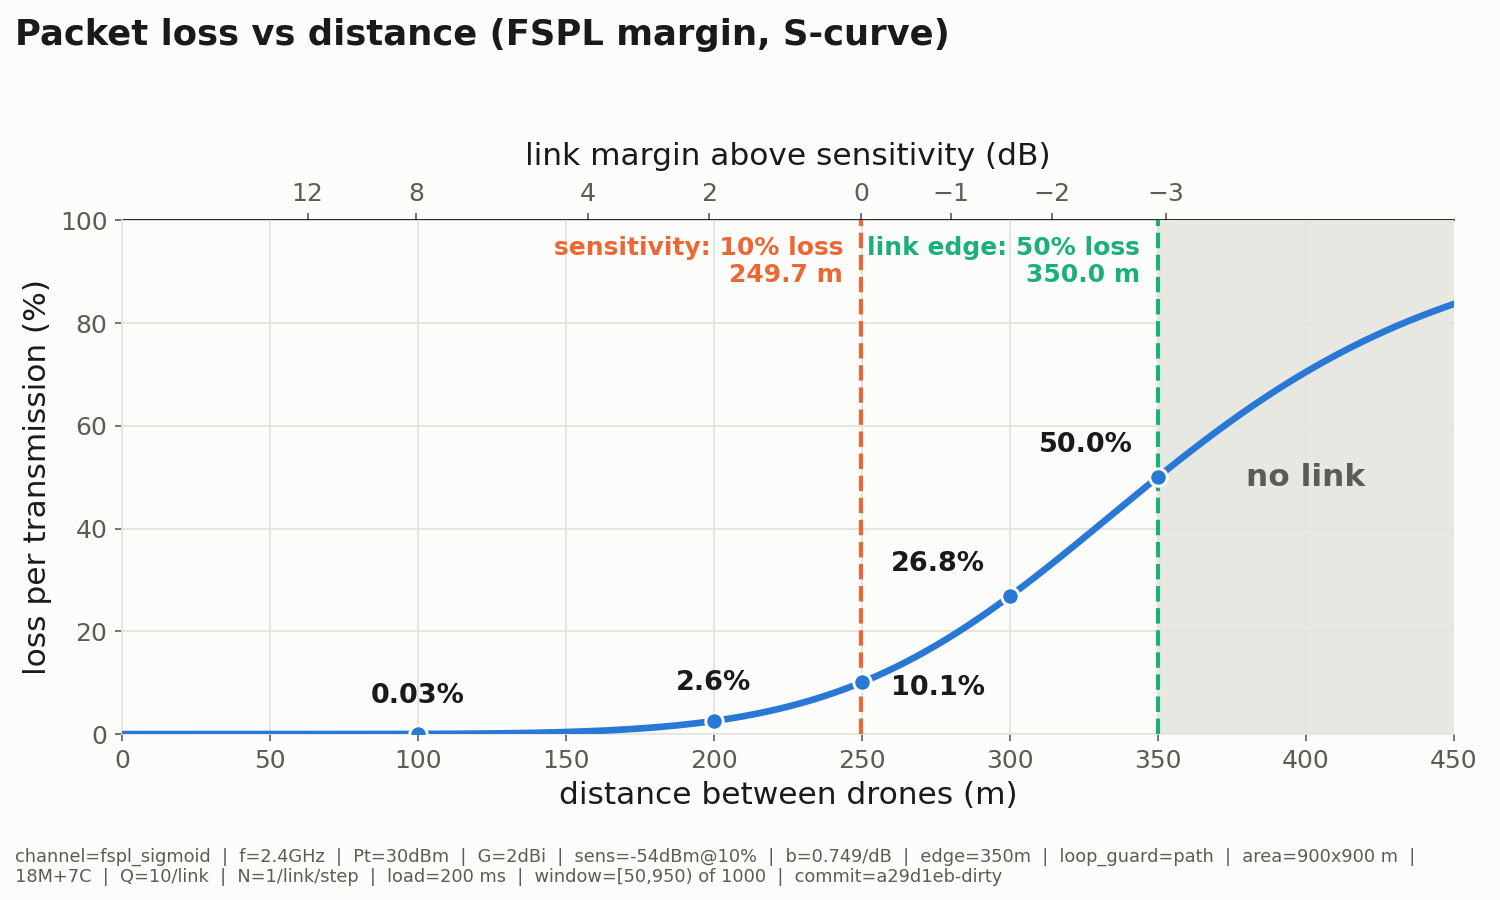
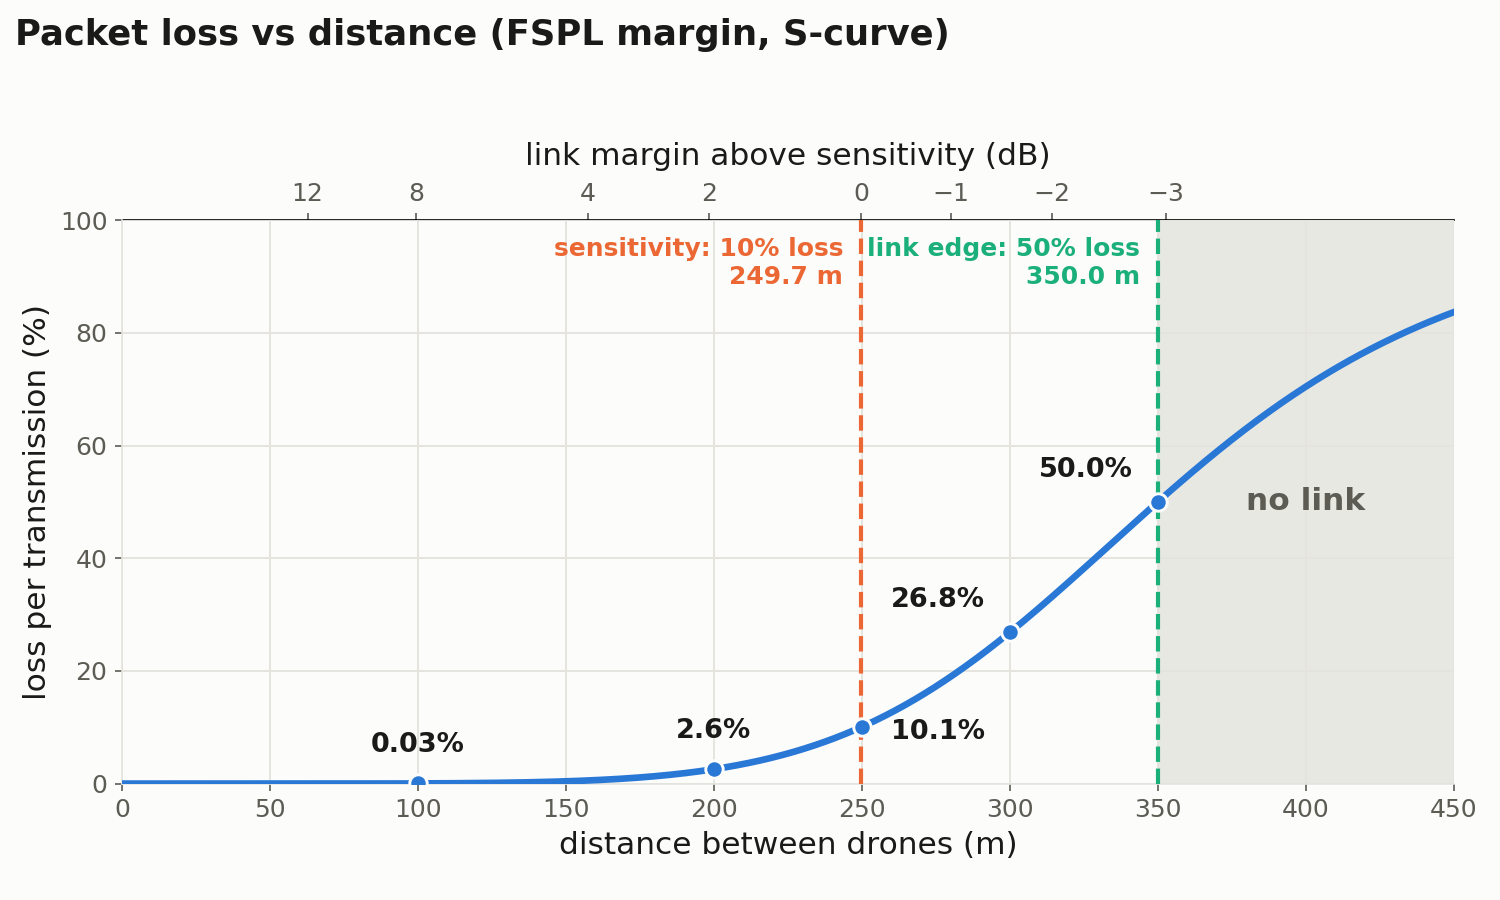
Report: dBm values in the bullets, no stamps on the report figures, bold trimmed
Section 4 bullets now give the numbers: transmit power 1 W (30 dBm), receiver
sensitivity -54 dBm.

Bold removed where it fell mid-sentence: "total packet loss", "full queues",
"channel", "rate", and the two highlighted cells in Table 3. Section titles
and definition lead-ins keep theirs; a check confirms no mid-sentence bold
is left in the written sections.

ploss_curve.png and 1a_loss_heatmaps.png are drawn for the report WITHOUT
the settings stamp, and the heatmap without its explanatory line: the report
has its own numbered captions. The copies in rl_sim/out/ keep both, so the
project's traceability rule still holds. plot_ploss.plot takes stamp=, and
experiment_1a.plot_loss_heatmaps takes annotate=.

Nothing is re-simulated for this: the curve comes from the channel code and
the heatmap is redrawn from the committed 1a_summary.csv, which already holds
the mean/std records that figure reads.

diff --git a/rl_sim/scripts/report_figures.py b/rl_sim/scripts/report_figures.py
@@ -58,9 +58,7 @@ LINK_COLOR = "#b9c6d4"
 #: exist in out/; a missing name is reported rather than passed over, so the
 #: report folder can never quietly fall behind.
 COPIED = (
-    "ploss_curve.png",
     "1a_total_loss_vs_load.png",
-    "1a_loss_heatmaps.png",
     "1a_link_matrix_placement1.png",
     "1b_learning_curve.png",
     "1b_learning_curve_seeds.png",
@@ -71,10 +69,11 @@ COPIED = (
     "queue_size_load_curve.png",
 )
 
-#: Figures this script draws itself. None at the moment: the example layout
-#: is a hand-made figure supplied for the report, and is listed under KEEP so
-#: a run of this script neither regenerates nor deletes it.
-OWN: tuple = ()
+#: Figures this script draws itself, from results already computed. These
+#: are the two the report shows without a settings stamp: the report has its
+#: own numbered captions, and the stamp is developer metadata. The stamped
+#: versions in rl_sim/out/ are untouched.
+OWN = ("ploss_curve.png", "1a_loss_heatmaps.png")
 
 #: Figures that live in the report folder but are NOT produced here.
 KEEP = ("example_layout.png",)
@@ -118,6 +117,57 @@ def copy_shared(out_dir: str, figures_dir: str) -> List[str]:
     return missing
 
 
+def draw_unstamped(out_dir: str, figures_dir: str) -> List[str]:
+    """Redraw the report's two stamped figures without their stamp.
+
+    Nothing is re-simulated: the loss curve comes from the channel code, and
+    the heatmap is redrawn from the committed summary CSV.
+
+    Args:
+        out_dir:     Where the project's CSVs live.
+        figures_dir: Where the report's figures go.
+
+    Returns:
+        The names that could not be drawn, with the reason.
+    """
+    from scripts.plot_ploss import plot as plot_curve
+    from scripts.stamp import read_stamped_csv
+
+    problems: List[str] = []
+
+    plot_curve(os.path.join(figures_dir, "ploss_curve.png"), stamp=False)
+    print("  drew ploss_curve.png (no stamp)")
+
+    summary_path = os.path.join(out_dir, "1a_summary.csv")
+    if not os.path.exists(summary_path):
+        problems.append(f"1a_loss_heatmaps.png: no {summary_path}")
+        return problems
+
+    from scripts.experiment_1a import plot_loss_heatmaps
+
+    # The summary CSV holds exactly the <column>_mean / _std records the
+    # heatmap reads, so it can be redrawn without rerunning the grid.
+    summary: List[Dict[str, Any]] = []
+    for raw in read_stamped_csv(summary_path):
+        record: Dict[str, Any] = {}
+        for key, value in raw.items():
+            if key in ("routing",):
+                record[key] = value
+            elif value == "":
+                record[key] = None
+            else:
+                record[key] = float(value)
+        record["load_ms"] = int(record["load_ms"])
+        record["runs"] = int(record["runs"])
+        summary.append(record)
+
+    plot_loss_heatmaps(summary,
+                       os.path.join(figures_dir, "1a_loss_heatmaps.png"),
+                       annotate=False)
+    print("  drew 1a_loss_heatmaps.png (no stamp, no caption)")
+    return problems
+
+
 def prune(figures_dir: str, keep: Sequence[str]) -> List[str]:
     """Delete figures in the report folder that are no longer produced.
 
@@ -156,6 +206,10 @@ def main() -> None:
     figures_dir = os.path.abspath(args.figures_dir)
     os.makedirs(figures_dir, exist_ok=True)
     print(f"Report figures -> {figures_dir}")
+
+    problems = draw_unstamped(args.out_dir, figures_dir)
+    if problems:
+        print("  NOT drawn: " + "; ".join(problems))
 
     missing = copy_shared(args.out_dir, figures_dir)
     if missing:

diff --git a/rl_sim/scripts/experiment_1a.py b/rl_sim/scripts/experiment_1a.py
@@ -733,7 +733,8 @@ def _draw_panel(
     return image
 
 
-def plot_loss_heatmaps(summary: List[Dict[str, Any]], path: str) -> None:
+def plot_loss_heatmaps(summary: List[Dict[str, Any]], path: str,
+                       annotate: bool = True) -> None:
     """Draw the loss heatmaps: causes per rule, then per-link loss apart.
 
     The cause panels are shares of packets created and share one colour bar.
@@ -742,8 +743,12 @@ def plot_loss_heatmaps(summary: List[Dict[str, Any]], path: str) -> None:
     to.
 
     Args:
-        summary: Output of :func:`summarise`.
-        path:    Output PNG path.
+        summary:  Output of :func:`summarise`.
+        path:     Output PNG path.
+        annotate: Whether to print the explanatory line and the settings
+                  stamp underneath. The copy in out/ keeps both; the copy
+                  used in the written report, which has its own caption,
+                  leaves them off.
     """
     fig = plt.figure(figsize=(16.0, 6.0), dpi=150)
     # Leave room under the axes for the caption and the settings stamp, so
@@ -802,15 +807,17 @@ def plot_loss_heatmaps(summary: List[Dict[str, Any]], path: str) -> None:
         "Loss and its causes, by load and routing rule  —  mean % (std)",
         color=TEXT_PRIMARY, fontsize=13, fontweight="bold", x=0.01, ha="left",
     )
-    fig.text(0.01, 0.085,
-             "Identical seeds for both rules. Left panels: share of packets "
-             "created. Right panel: share of link attempts, pooled over all "
-             "links — a different denominator, hence its own scale.",
-             color=TEXT_SECONDARY, fontsize=8)
-    fig.text(0.01, 0.02,
-             stamp_lines(width=150, loads_ms=LOADS_MS,
-                         placements=summary[0]["runs"]),
-             color=TEXT_SECONDARY, fontsize=7.5, va="bottom")
+    if annotate:
+        fig.text(0.01, 0.085,
+                 "Identical seeds for both rules. Left panels: share of "
+                 "packets created. Right panel: share of link attempts, "
+                 "pooled over all links — a different denominator, hence its "
+                 "own scale.",
+                 color=TEXT_SECONDARY, fontsize=8)
+        fig.text(0.01, 0.02,
+                 stamp_lines(width=150, loads_ms=LOADS_MS,
+                             placements=summary[0]["runs"]),
+                 color=TEXT_SECONDARY, fontsize=7.5, va="bottom")
 
     fig.savefig(path, facecolor=SURFACE)
     plt.close(fig)

diff --git a/rl_sim/scripts/plot_ploss.py b/rl_sim/scripts/plot_ploss.py
@@ -88,11 +88,14 @@ def print_reference_table() -> None:
           f"(p_loss < {config.LINK_MAX_LOSS})")
 
 
-def plot(out_path: str) -> str:
+def plot(out_path: str, stamp: bool = True) -> str:
     """Draw the loss curve.
 
     Args:
         out_path: Where the PNG goes.
+        stamp:    Whether to print the settings stamp along the bottom. The
+                  copy in out/ keeps it, for traceability; the copy used in
+                  the written report leaves it off.
 
     Returns:
         The path written.
@@ -176,9 +179,10 @@ def plot(out_path: str) -> str:
     fig.suptitle("Packet loss vs distance (FSPL margin, S-curve)",
                  color=TEXT_PRIMARY, fontsize=17, fontweight="bold",
                  x=0.01, ha="left")
-    fig.tight_layout(rect=(0, 0.075, 1, 0.93))
-    fig.text(0.01, 0.015, stamp_lines(width=150), color=TEXT_SECONDARY,
-             fontsize=8.5, va="bottom")
+    fig.tight_layout(rect=(0, 0.075 if stamp else 0.02, 1, 0.93))
+    if stamp:
+        fig.text(0.01, 0.015, stamp_lines(width=150), color=TEXT_SECONDARY,
+                 fontsize=8.5, va="bottom")
     fig.savefig(out_path, facecolor=SURFACE)
     plt.close(fig)
     return out_path

diff --git a/docs/report/phase1_report.md b/docs/report/phase1_report.md
@@ -80,10 +80,10 @@ distance between the two drones. We compute it in two steps:
 
 Where:
 - d: distance between the drones
-- P_T: transmit power, 1 W [CITE: IQMR]
+- P_T: transmit power, 1 W (30 dBm) [CITE: IQMR]
 - G_T, G_R: antenna gains, 2 dBi
-- S: receiver sensitivity, the power at which 10% of packets are lost
-  [CITE: 802.11 receiver minimum input sensitivity]
+- S: receiver sensitivity, −54 dBm, the power at which 10% of packets
+  are lost [CITE: 802.11 receiver minimum input sensitivity]
 - b: set so that the loss is 50% at 350 m
 
 Real wireless links behave this way: reliable up to some distance,
@@ -190,7 +190,7 @@ simulation.
 
 **Measuring loss**
 
-Our main metric is **total packet loss**: the percentage of created
+Our main metric is total packet loss: the percentage of created
 packets that never reach the GS. Each lost packet has one reason:
 
 | reason | meaning |
@@ -277,13 +277,13 @@ Figure 3 shows the total loss and its causes.
 at each load (mean over 20 layouts, standard deviation in brackets).
 
 Greedy loses much less than random at every load. Most of greedy's
-loss comes from **full queues**: since every drone sends towards the
+loss comes from full queues: since every drone sends towards the
 GS, many packets pass through the same few links and their queues fill
 up. As the load grows, this gets worse (2.9% at 1000 ms, 40% at
 200 ms).
 
 Random loses about 74% at every load. It does not move towards the GS,
-so packets take many hops and most are lost on the **channel** along
+so packets take many hops and most are lost on the channel along
 the way (61%). Its queues never fill up, so the load does not matter.
 <!-- source: rl_sim/out/1a_runs.csv -->
 
@@ -339,7 +339,7 @@ decisions.
 **The rate rule**
 
 To see what the network actually learns, we also built a simple rule
-with no learning, called **rate**. It uses the same delivery rates,
+with no learning, called rate. It uses the same delivery rates,
 but with a fixed formula: it picks the link with the highest delivery
 rate and skips links whose queue is full. In 5% of decisions it picks
 a random link, so that it keeps measuring links it does not use.
@@ -378,8 +378,8 @@ networks.
 
 | load | random | greedy | rate | RL |
 |---|---|---|---|---|
-| 200 ms | 74.2% | 52.8% | 25.1% | **22.3%** |
-| 500 ms | 74.3% | 27.4% | 21.0% | **12.6%** |
+| 200 ms | 74.2% | 52.8% | 25.1% | 22.3% |
+| 500 ms | 74.3% | 27.4% | 21.0% | 12.6% |
 
 **Table 3:** Total packet loss on the 50 test layouts.
 <!-- source: rl_sim/out/1b_test50_runs.csv -->
